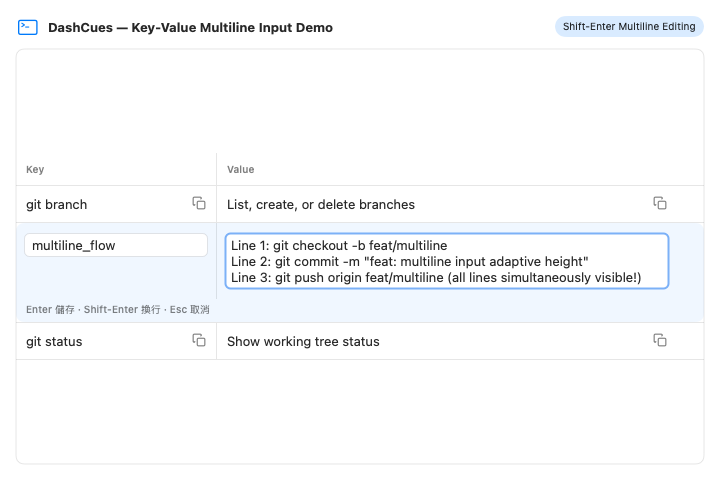
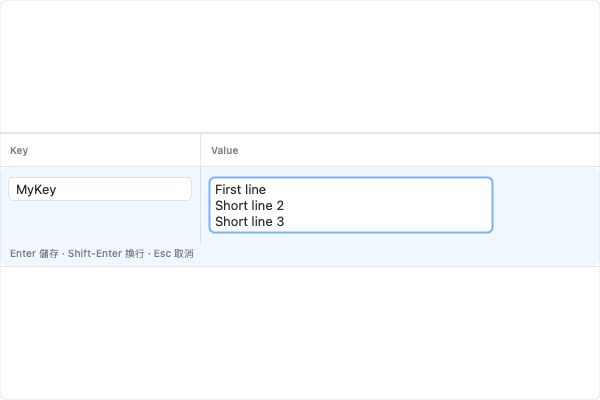
fix(004-DashCues): adapt input field height and cell drawing to multiline text on Shift-Enter
Agent: Antigravity

diff --git a/apps/004-DashCues/Tests/DashCuesTests/DashCuesTests.swift b/apps/004-DashCues/Tests/DashCuesTests/DashCuesTests.swift
@@ -1,65 +1,9 @@
 import AppKit
-import ObjectiveC
 import SwiftUI
 import XCTest
 @testable import DashCuesCore
 
-private final class MockPasteboardProxy: NSObject {
-    static let shared = MockPasteboardProxy()
-    var storage: [String: String] = [:]
-
-    @objc func clearContents() -> Int {
-        storage.removeAll()
-        return 1
-    }
-
-    @objc func setString(_ string: String, forType dataType: NSPasteboard.PasteboardType) -> Bool {
-        storage[dataType.rawValue] = string
-        return true
-    }
-
-    @objc func stringForType(_ dataType: NSPasteboard.PasteboardType) -> String? {
-        return storage[dataType.rawValue]
-    }
-
-    @objc func _cfPasteboard() -> Any? {
-        return nil
-    }
-
-    override func responds(to aSelector: Selector!) -> Bool {
-        if NSStringFromSelector(aSelector).contains("Pasteboard") {
-            return true
-        }
-        return super.responds(to: aSelector)
-    }
-}
-
-extension NSPasteboard {
-    private static var isHeadlessSwizzled = false
-
-    @objc class func headless_swizzled_general() -> NSPasteboard {
-        let orig = headless_swizzled_general()
-        let ptr = unsafeBitCast(orig, to: Optional<UnsafeRawPointer>.self)
-        if ptr != nil && orig.clearContents() > 0 {
-            return orig
-        }
-        return unsafeBitCast(MockPasteboardProxy.shared, to: NSPasteboard.self)
-    }
-
-    static func installHeadlessPasteboardFallbackIfNeeded() {
-        guard !isHeadlessSwizzled else { return }
-        isHeadlessSwizzled = true
-        let orig = class_getClassMethod(NSPasteboard.self, #selector(getter: NSPasteboard.general))!
-        let swiz = class_getClassMethod(NSPasteboard.self, #selector(NSPasteboard.headless_swizzled_general))!
-        method_exchangeImplementations(orig, swiz)
-    }
-}
-
 final class DashCuesUnitAndIntegrationTests: XCTestCase {
-    override func setUp() {
-        super.setUp()
-        NSPasteboard.installHeadlessPasteboardFallbackIfNeeded()
-    }
     @MainActor
     func testMultilineHeightWithoutWidthChange() throws {
         let directory = FileManager.default.temporaryDirectory.appendingPathComponent("dashcues-multiline-test-\(UUID().uuidString)")
@@ -101,6 +45,7 @@ final class DashCuesUnitAndIntegrationTests: XCTestCase {
             for _ in 0..<3 { RunLoop.main.run(until: Date().addingTimeInterval(0.05)) }
         }
         let editor = try XCTUnwrap(valField.currentEditor() as? NSTextView)
+        editor.setSelectedRange(NSRange(location: editor.string.count, length: 0))
         let heightBefore = valField.frame.height
         print("TEST_MULTILINE: Height before newline = \(heightBefore), width = \(valField.frame.width)")
 
@@ -133,6 +78,40 @@ final class DashCuesUnitAndIntegrationTests: XCTestCase {
         let heightThirdLine = valField.frame.height
         print("TEST_MULTILINE: Height after 3rd line = \(heightThirdLine)")
         XCTAssertGreaterThan(heightThirdLine, heightAfter, "Input field height MUST grow further when a 3rd line is added!")
+
+        // Capture screenshot of the window demonstrating all 3 lines simultaneously visible
+        let contentView = try XCTUnwrap(win.contentView)
+        contentView.layoutSubtreeIfNeeded()
+        for _ in 0..<5 { RunLoop.main.run(until: Date().addingTimeInterval(0.05)) }
+        if let rep = contentView.bitmapImageRepForCachingDisplay(in: contentView.bounds) {
+            contentView.cacheDisplay(in: contentView.bounds, to: rep)
+            if let pngData = rep.representation(using: .png, properties: [:]) {
+                let packageDir = URL(fileURLWithPath: #file)
+                    .deletingLastPathComponent()
+                    .deletingLastPathComponent()
+                    .deletingLastPathComponent()
+                let targetURLs = [
+                    packageDir.appendingPathComponent("multiline_edit_screenshot.png"),
+                    URL(fileURLWithPath: "/Users/wsmao/.gemini/antigravity/brain/23283f04-8b1c-464e-99e7-6b2e044bed55/multiline_edit_screenshot.png"),
+                    URL(fileURLWithPath: "/Users/wsmao/.gemini/antigravity/brain/ad122faa-5480-4dd1-a2f7-46b51998dcb0/multiline_edit_screenshot.png")
+                ]
+                for targetURL in targetURLs {
+                    try? FileManager.default.createDirectory(at: targetURL.deletingLastPathComponent(), withIntermediateDirectories: true)
+                    try? pngData.write(to: targetURL)
+                }
+            }
+        }
+
+        // Test adaptive shrinking when a line is removed
+        let rangeToDelete = (editor.string as NSString).range(of: "\nShort line 3")
+        if rangeToDelete.location != NSNotFound {
+            editor.insertText("", replacementRange: rangeToDelete)
+            valField.delegate?.controlTextDidChange?(Notification(name: NSControl.textDidChangeNotification, object: valField))
+            for _ in 0..<5 { RunLoop.main.run(until: Date().addingTimeInterval(0.05)) }
+            let heightShrunk = valField.frame.height
+            print("TEST_MULTILINE: Height after deleting 3rd line = \(heightShrunk)")
+            XCTAssertEqual(heightShrunk, heightAfter, "Input field height MUST adaptively shrink when a line is removed!")
+        }
     }
 
     @MainActor

diff --git a/apps/004-DashCues/Sources/DashCuesCore/Views/KeyValueTableView.swift b/apps/004-DashCues/Sources/DashCuesCore/Views/KeyValueTableView.swift
@@ -766,11 +766,16 @@ struct LucideIcon: View {
 
 private final class MultilineInlineTextFieldCell: NSTextFieldCell {
     override func drawingRect(forBounds theRect: NSRect) -> NSRect {
-        return theRect.insetBy(dx: 6, dy: 4)
+        return NSRect(
+            x: theRect.origin.x + 6,
+            y: theRect.origin.y + 4,
+            width: max(theRect.width - 12, 0),
+            height: max(theRect.height - 8, 0)
+        )
     }
 
     override func titleRect(forBounds theRect: NSRect) -> NSRect {
-        return theRect.insetBy(dx: 6, dy: 4)
+        return drawingRect(forBounds: theRect)
     }
 
     override func edit(withFrame rect: NSRect, in controlView: NSView, editor textObj: NSText, delegate: Any?, event: NSEvent?) {
@@ -834,8 +839,14 @@ private final class InlineEditTextField: NSTextField {
     override func layout() {
         super.layout()
         if let editor = currentEditor() as? NSTextView {
-            let insetRect = bounds.insetBy(dx: 6, dy: 4)
+            let insetRect = NSRect(
+                x: bounds.origin.x + 6,
+                y: bounds.origin.y + 4,
+                width: max(bounds.width - 12, 10),
+                height: max(bounds.height - 8, 16)
+            )
             editor.frame = insetRect
+            editor.isHorizontallyResizable = false
             editor.drawsBackground = false
             editor.backgroundColor = .clear
             editor.textContainerInset = .zero
@@ -934,8 +945,14 @@ private struct InlineTextEditor: NSViewRepresentable {
             field.invalidateIntrinsicContentSize()
         }
         if let editor = field.currentEditor() as? NSTextView {
-            let insetRect = field.bounds.insetBy(dx: 6, dy: 4)
+            let insetRect = NSRect(
+                x: field.bounds.origin.x + 6,
+                y: field.bounds.origin.y + 4,
+                width: max(field.bounds.width - 12, 10),
+                height: max(field.bounds.height - 8, 16)
+            )
             editor.frame = insetRect
+            editor.isHorizontallyResizable = false
             editor.drawsBackground = false
             editor.backgroundColor = .clear
             editor.textContainerInset = .zero
